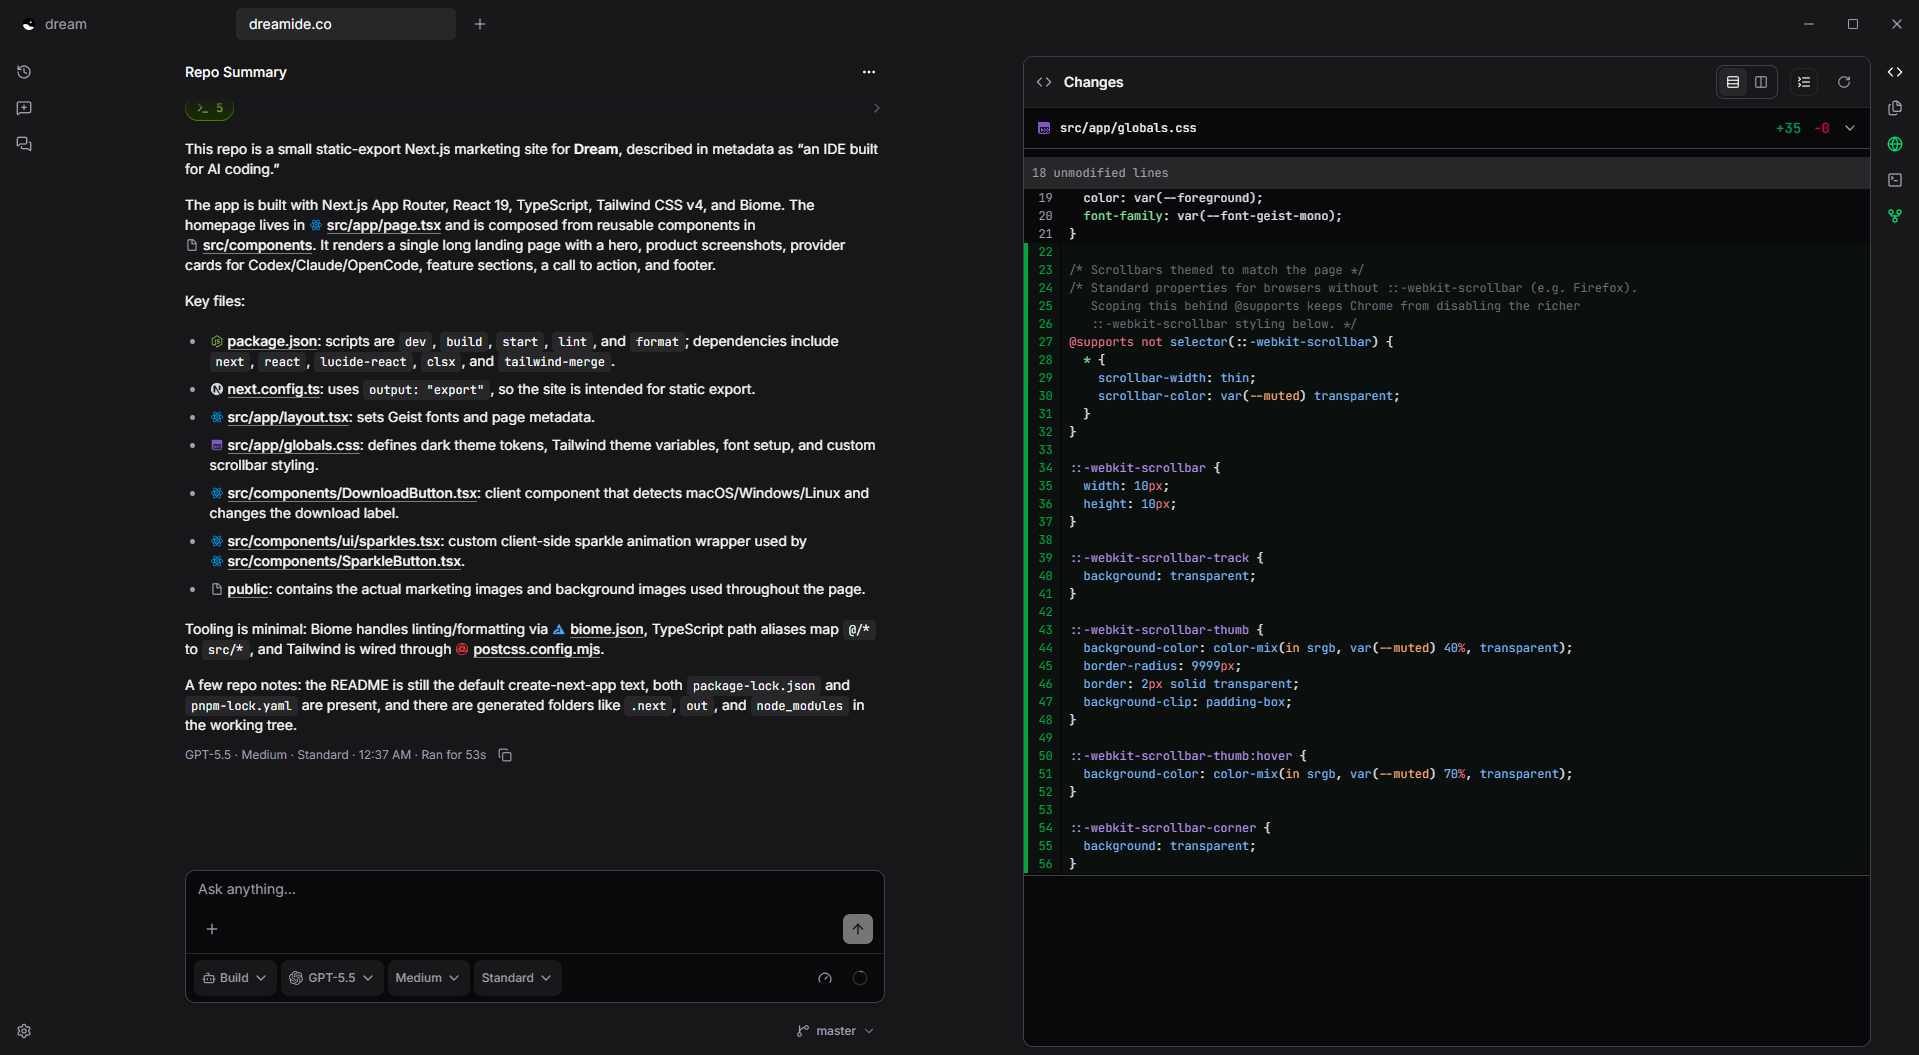
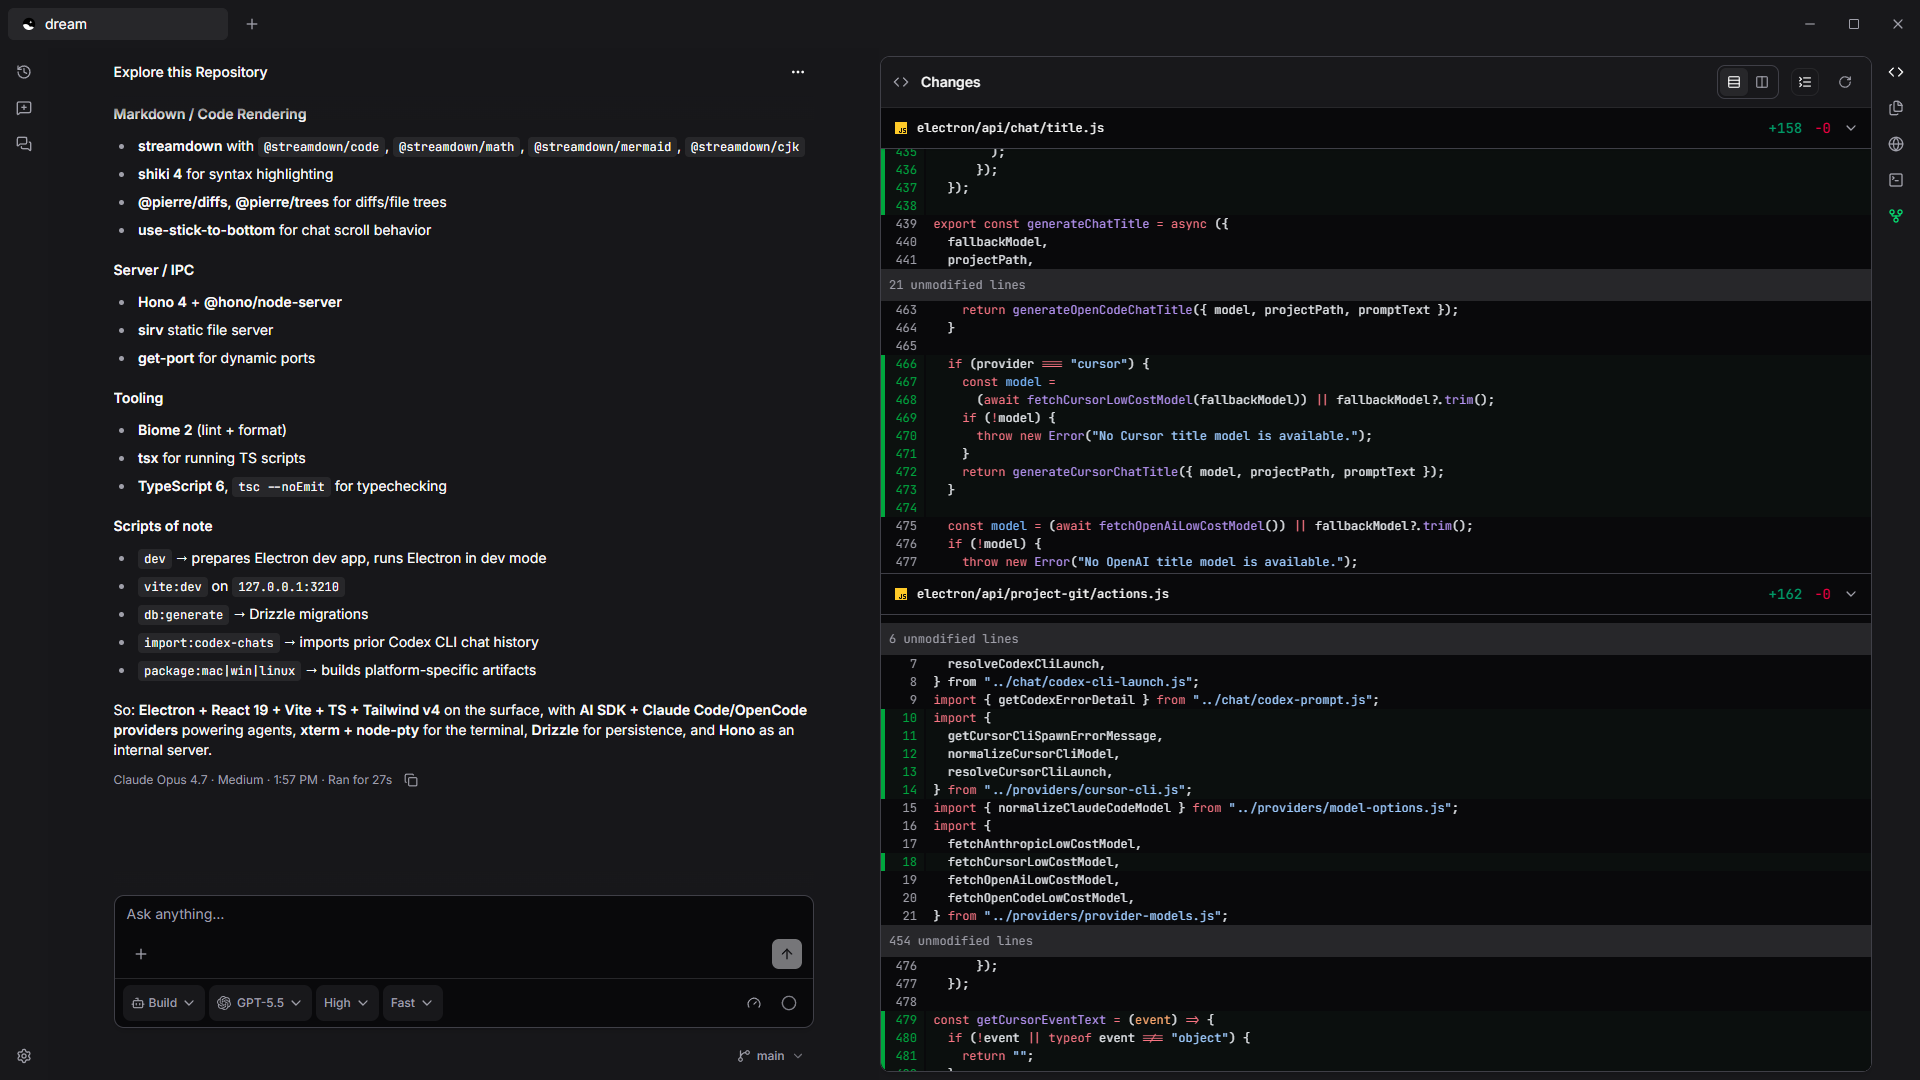
Add Dream branding and Cursor provider support

diff --git a/src/app/page.tsx b/src/app/page.tsx
@@ -3,6 +3,7 @@ import CallToAction from "@/components/CallToAction";
 import Footer from "@/components/Footer";
 import Hero from "@/components/Hero";
 import ClaudeIcon from "@/components/icons/ClaudeIcon";
+import CursorIcon from "@/components/icons/CursorIcon";
 import OpenAIIcon from "@/components/icons/OpenAIIcon";
 import OpenCodeIcon from "@/components/icons/OpenCodeIcon";
 import Provider from "@/components/Provider";
@@ -12,11 +13,10 @@ export default function Home() {
   return (
     <div className="flex flex-col flex-1 max-w-[1400px] w-full mx-auto px-4 sm:px-6 lg:px-8 gap-24 sm:gap-40 lg:gap-60">
       <Hero />
-      <Screenshot />
       <div className="flex flex-col gap-16">
-        <Block title="Bring Your Own Provider" className="w-full lg:w-3xl">
-          Dream works with your existing subscription from OpenAI, Anthropic and
-          OpenCode.
+        <Block title="Bring Your Own Provider" className="w-full lg:w-4xl">
+          Dream works with your existing subscription from OpenAI, Anthropic,
+          OpenCode and Cursor.
         </Block>
         <div
           className="flex flex-wrap items-center justify-center rounded-lg p-6 sm:p-10 lg:p-16 gap-4 sm:gap-8 flex-grow"
@@ -33,6 +33,7 @@ export default function Home() {
             icon={<OpenCodeIcon className="size-8" />}
             label="OpenCode"
           />
+          <Provider icon={<CursorIcon className="size-8" />} label="Cursor" />
         </div>
       </div>
       <div className="flex flex-col lg:flex-row gap-8 lg:gap-32 items-center">
@@ -104,9 +105,9 @@ export default function Home() {
             className="rounded-lg mt-8"
           />
         </div>
-        <Block title="A faster Git workflow." className="w-full lg:w-2xl">
+        <Block title="Faster Git workflow." className="w-full lg:w-2xl">
           Review diffs, stage changes, and write commit messages without leaving
-          your editor. Everything you reach for most, built right in.
+          your editor. Stay in flow from first edit to final commit.
         </Block>
       </div>
       <CallToAction />

diff --git a/src/components/Hero.tsx b/src/components/Hero.tsx
@@ -2,6 +2,7 @@ import { ArrowUpRight } from "lucide-react";
 import Button from "@/components/Button";
 import DownloadButton from "@/components/DownloadButton";
 import GitHubIcon from "@/components/icons/GitHubIcon";
+import Screenshot from "@/components/Screenshot";
 
 export default function Hero() {
   return (
@@ -12,7 +13,7 @@ export default function Hero() {
       <div className="text-base sm:text-lg my-8 sm:my-16 text-muted">
         An IDE built for AI coding. Fast. Powerful. Open source.
       </div>
-      <div className="flex flex-col sm:flex-row items-center justify-center gap-3">
+      <div className="flex flex-col sm:flex-row items-center justify-center gap-3 mb-32">
         <DownloadButton sparkle />
         <Button
           href="https://github.com/dreamide/dream"
@@ -24,6 +25,7 @@ export default function Hero() {
           <ArrowUpRight className="size-4 text-muted" />
         </Button>
       </div>
+      <Screenshot />
     </div>
   );
 }

diff --git a/src/components/icons/CursorIcon.tsx b/src/components/icons/CursorIcon.tsx
@@ -1,0 +1,14 @@
+import type { SVGProps } from "react";
+
+export default function CursorIcon(props: SVGProps<SVGSVGElement>) {
+  return (
+    <svg
+      viewBox="0 0 24 24"
+      fill="currentColor"
+      aria-hidden="true"
+      {...props}
+    >
+      <path d="M11.503.131 1.891 5.678a.84.84 0 0 0-.42.726v11.188c0 .3.162.575.42.724l9.609 5.55a1 1 0 0 0 .998 0l9.61-5.55a.84.84 0 0 0 .42-.724V6.404a.84.84 0 0 0-.42-.726L12.497.131a1.01 1.01 0 0 0-.996 0M2.657 6.338h18.55c.263 0 .43.287.297.515L12.23 22.918c-.062.107-.229.064-.229-.06V12.335a.59.59 0 0 0-.295-.51l-9.11-5.257c-.109-.063-.064-.23.061-.23" />
+    </svg>
+  );
+}

diff --git a/src/components/Button.tsx b/src/components/Button.tsx
@@ -4,7 +4,7 @@ type Variant = "primary" | "secondary";
 
 const variants: Record<Variant, string> = {
   primary:
-    "bg-foreground text-background border border-white/10 shadow-[inset_0_1px_0_0_rgba(255,255,255,0.25)] hover:opacity-90",
+    "bg-foreground text-background border border-white/10 shadow-[inset_0_1px_0_0_rgba(255,255,255,0.25)]",
   secondary:
     "bg-white/[0.04] text-foreground border border-white/10 shadow-[inset_0_1px_0_0_rgba(255,255,255,0.06)] hover:bg-white/[0.08]",
 };

diff --git a/src/components/Footer.tsx b/src/components/Footer.tsx
@@ -1,6 +1,11 @@
 export default function Footer() {
   return (
     <footer className="text-center text-sm text-muted py-8">
+      <img
+        src="/dream.png"
+        alt="Dream IDE logo"
+        className="mx-auto mb-8 w-16"
+      />
       Copyright &copy; {new Date().getFullYear()} The Dream IDE Company. All
       rights reserved.
     </footer>

diff --git a/src/app/layout.tsx b/src/app/layout.tsx
@@ -15,6 +15,9 @@ const geistMono = Geist_Mono({
 export const metadata: Metadata = {
   title: "Dream",
   description: "Dream is an IDE built for AI coding.",
+  icons: {
+    icon: "/dream.png",
+  },
 };
 
 export default function RootLayout({
